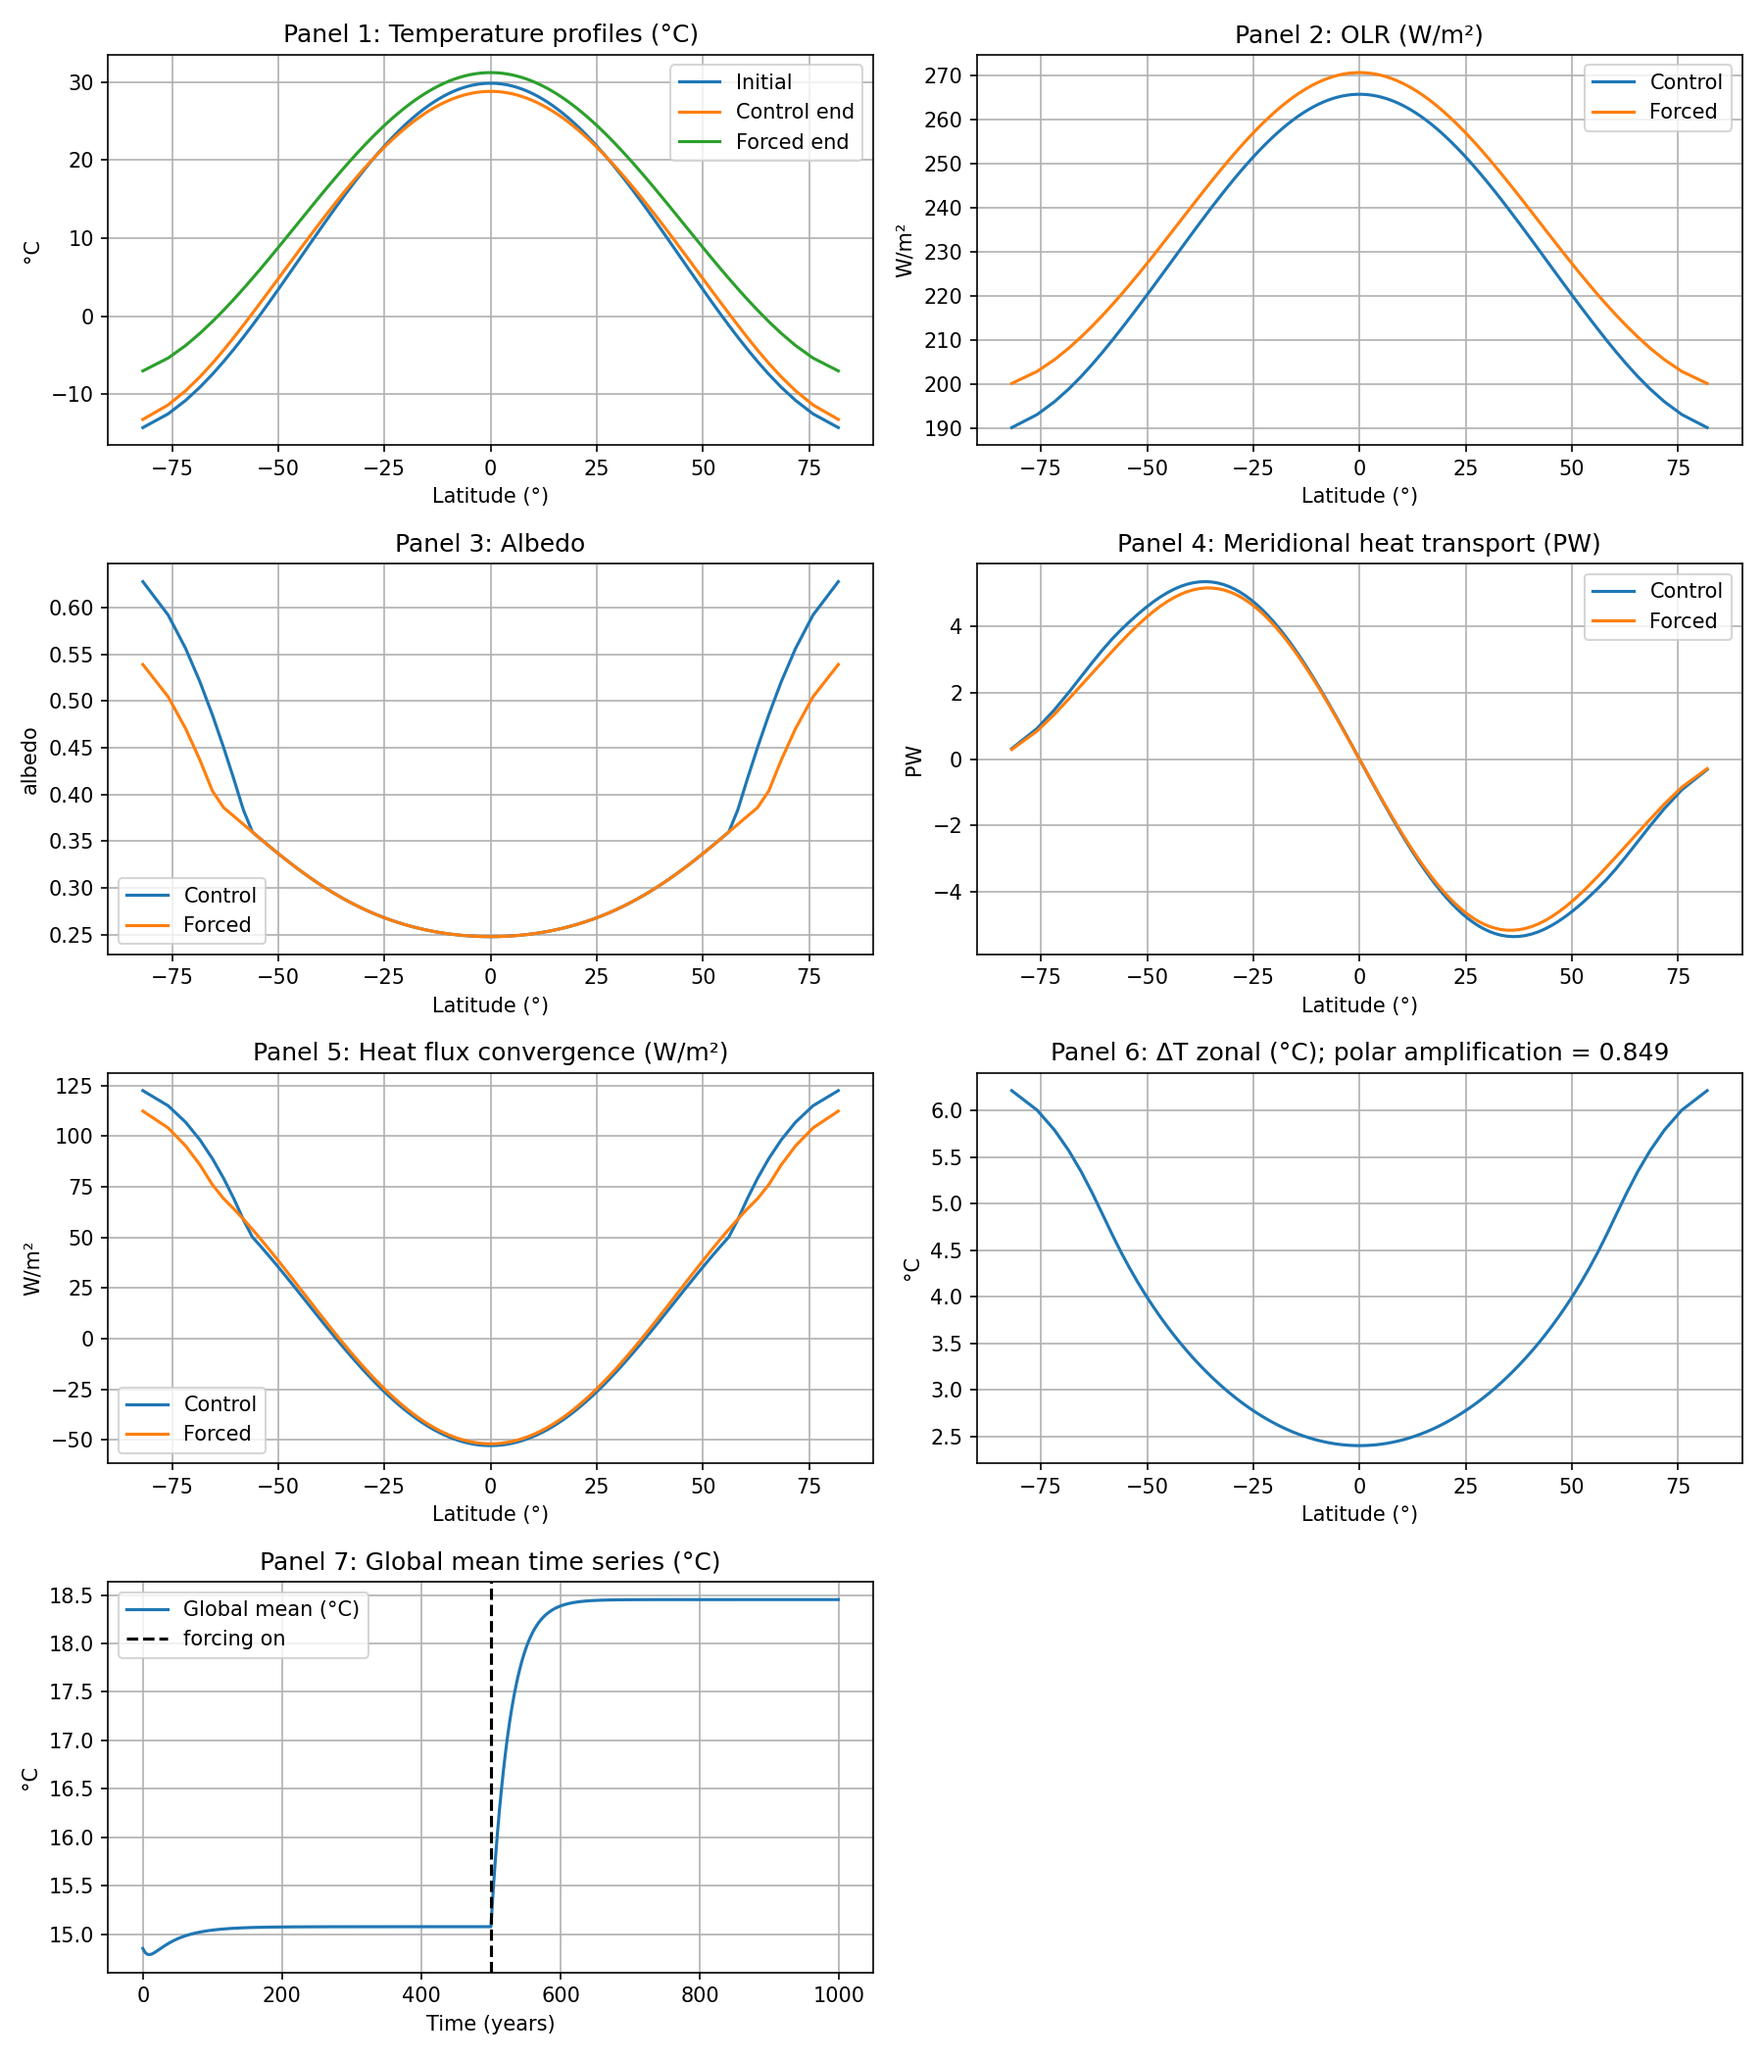
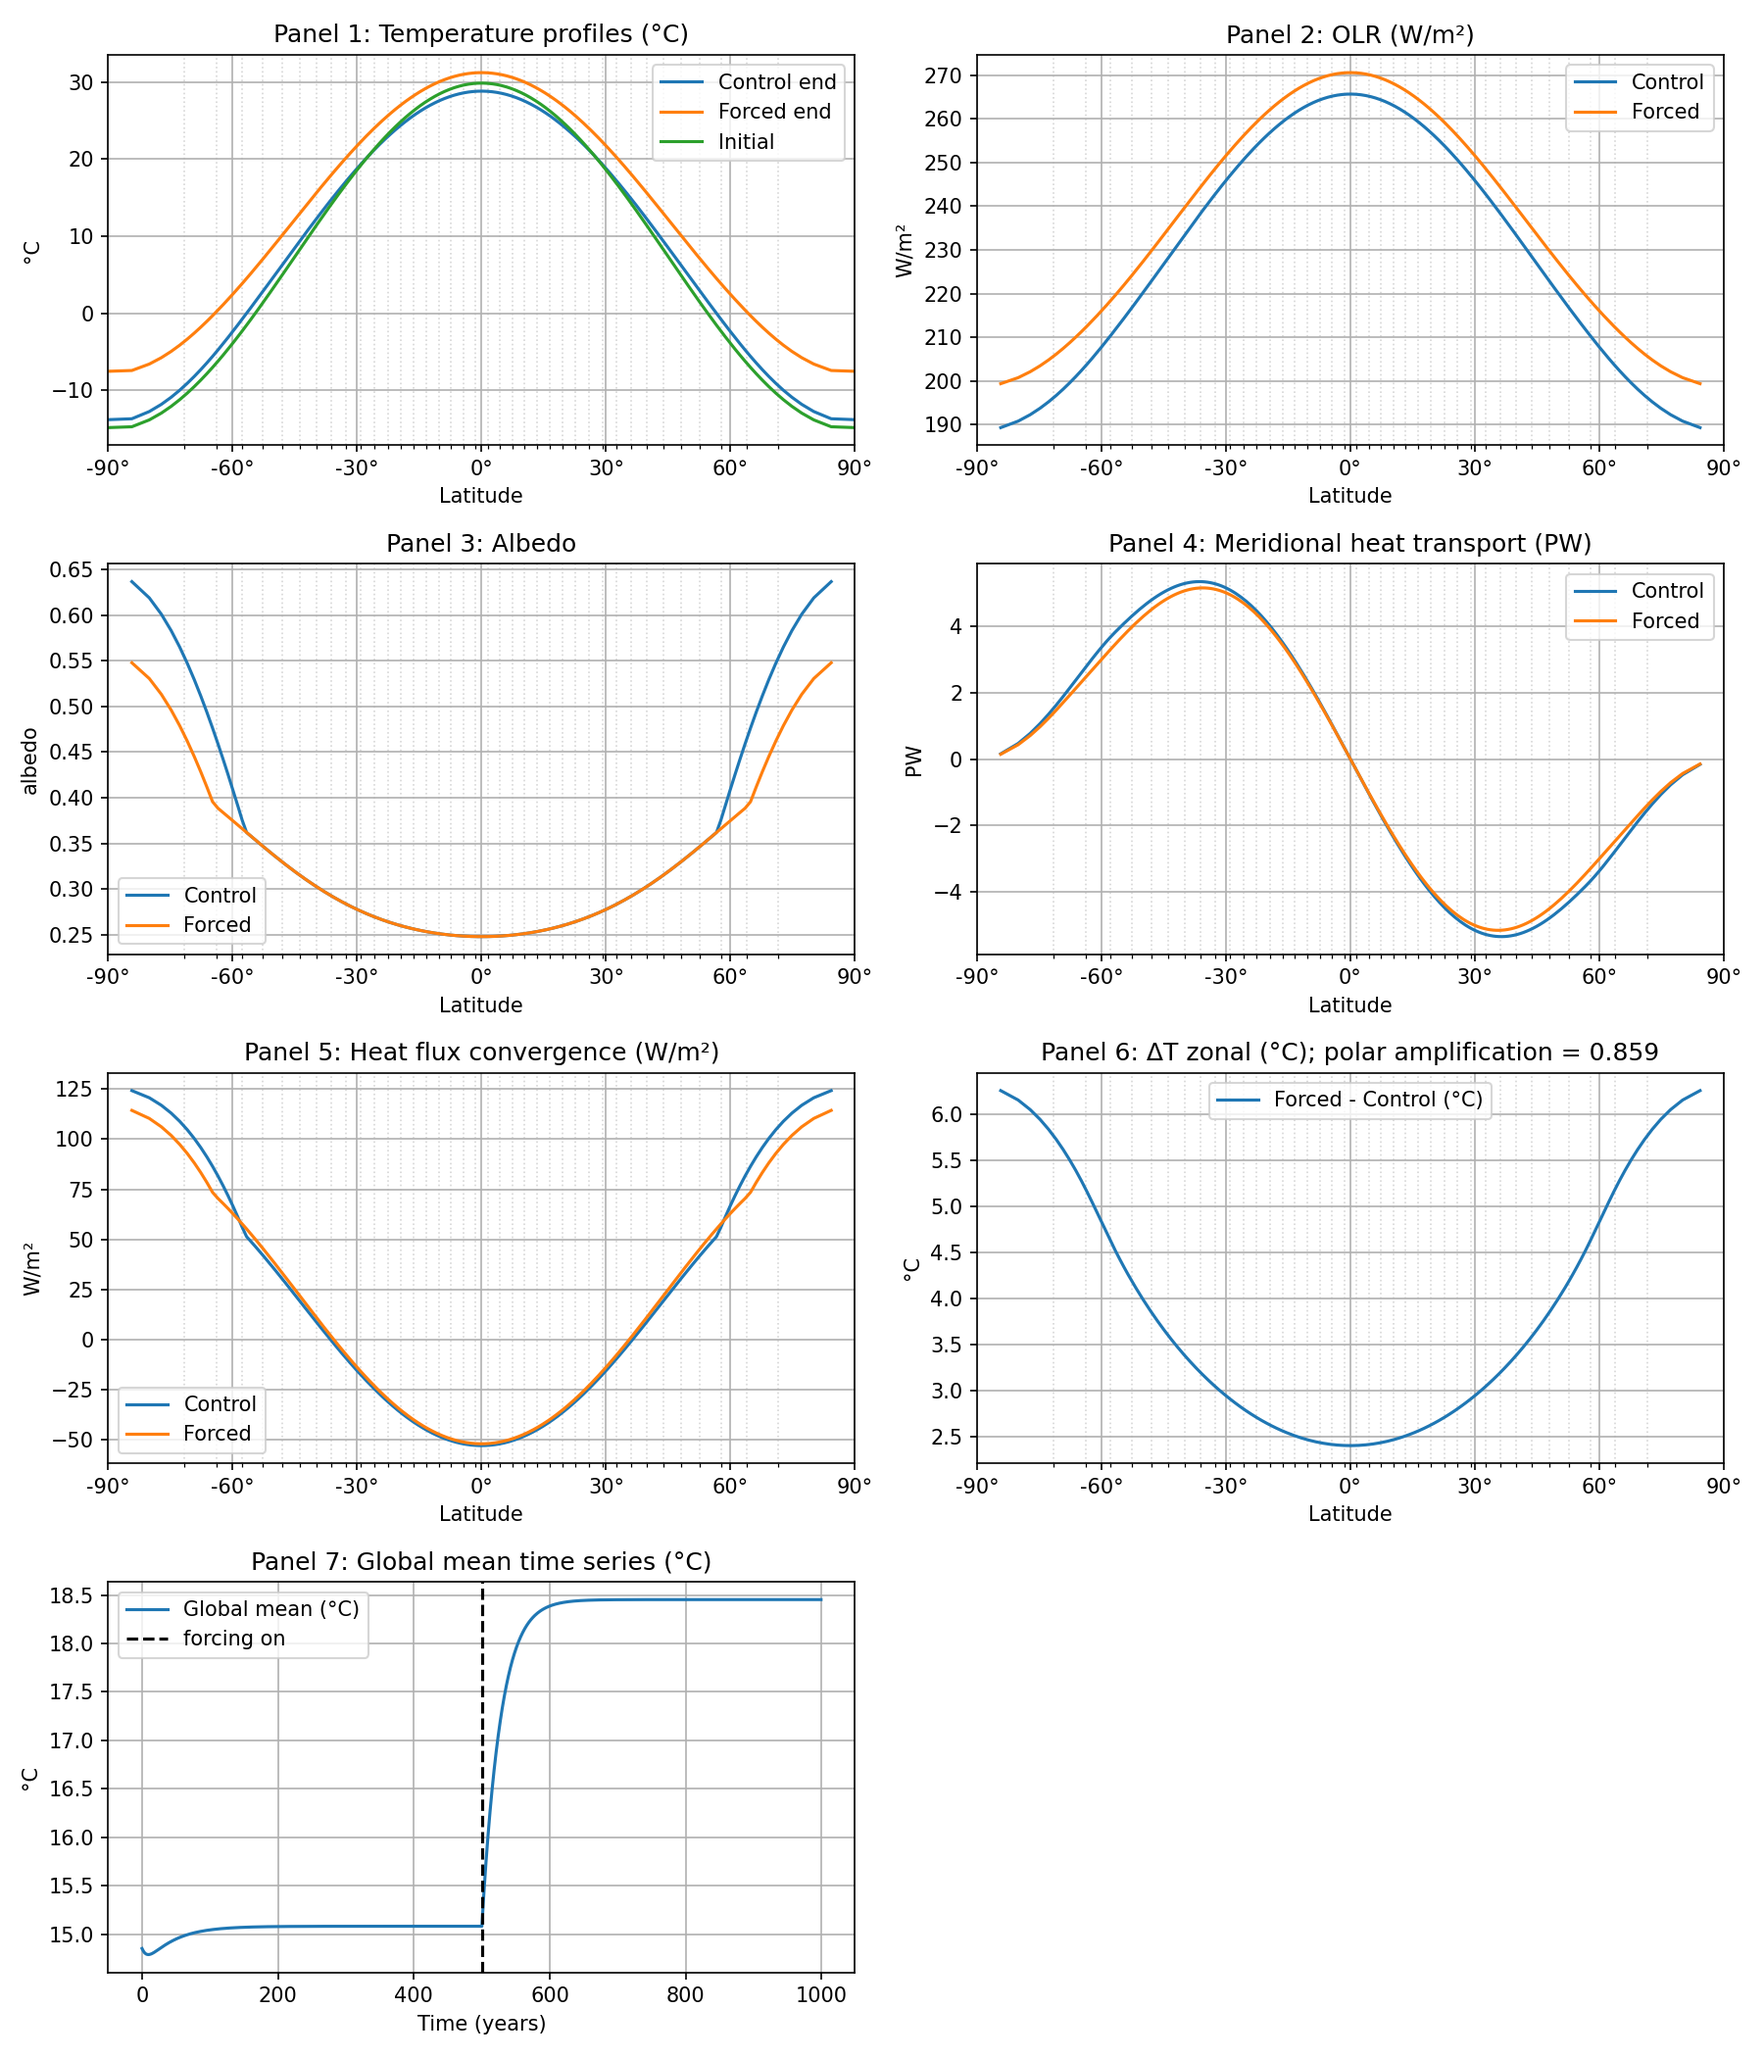
Updated panel look

diff --git a/ebm.py b/ebm.py
@@ -21,7 +21,8 @@ Usage example:
 
 import numpy as np
 import matplotlib.pyplot as plt
-import argparse, os, textwrap
+import argparse, os, textwrap # for command-line args, file operations and text formatting
+from matplotlib.ticker import FixedLocator # for minor ticks
 
 # ---------------- Physical / model constants ----------------
 SIGMA = 5.67e-8                  # Stefan-Boltzmann (W/m²/K⁴)
@@ -199,7 +200,7 @@ def main():
     p.add_argument('--input', type=str, default='formoutput.txt', help='parameter file (optional)')
     p.add_argument('--years_control', type=float, default=500)
     p.add_argument('--years_forced', type=float, default=500)
-    p.add_argument('--nx', type=int, default=100)
+    p.add_argument('--nx', type=int, default=200)
     p.add_argument('--dt', type=float, default=1.0, help='timestep in years')
     p.add_argument('--outdir', type=str, default='results')
     args = p.parse_args()
@@ -255,39 +256,39 @@ def main():
     # ---- Build multipanel figure ----
     fig, axs = plt.subplots(4, 2, figsize=(12, 14))
     axs = axs.flatten()
-
+    
     # Panel 1: Temperature profiles (°C)
-    axs[0].plot(lat, ctrl['T_init'] - 273.15, label='Initial')
-    axs[0].plot(lat, ctrl['T_end'] - 273.15, label='Control end')
-    axs[0].plot(lat, forc['T_end'] - 273.15, label='Forced end')
-    axs[0].set_title('Panel 1: Temperature profiles (°C)'); axs[0].set_xlabel('Latitude (°)'); axs[0].set_ylabel('°C'); axs[0].legend(); axs[0].grid(True)
+    axs[0].plot([-90, *lat, 90], [ctrl['T_poles_end'][0] - 273.15,*ctrl['T_end'] - 273.15, ctrl['T_poles_end'][1] - 273.15], label='Control end')
+    axs[0].plot([-90, *lat, 90], [forc['T_poles_end'][0] - 273.15,*forc['T_end'] - 273.15, forc['T_poles_end'][1] - 273.15], label='Forced end')
+    axs[0].plot([-90, *lat, 90], [ctrl['T_poles_init'][0] - 273.15,*ctrl['T_init'] - 273.15, ctrl['T_poles_init'][1] - 273.15], label='Initial')
+    axs[0].set_title('Panel 1: Temperature profiles (°C)'); axs[0].set_ylabel('°C')
 
     # Panel 2: OLR (W/m²)
     axs[1].plot(lat, ctrl['olr_end'], label='Control')
     axs[1].plot(lat, forc['olr_end'], label='Forced')
-    axs[1].set_title('Panel 2: OLR (W/m²)'); axs[1].set_xlabel('Latitude (°)'); axs[1].set_ylabel('W/m²'); axs[1].legend(); axs[1].grid(True)
+    axs[1].set_title('Panel 2: OLR (W/m²)'); axs[1].set_ylabel('W/m²')
 
     # Panel 3: Albedo
     axs[2].plot(lat, ctrl['alpha_end'], label='Control')
     axs[2].plot(lat, forc['alpha_end'], label='Forced')
-    axs[2].set_title('Panel 3: Albedo'); axs[2].set_xlabel('Latitude (°)'); axs[2].set_ylabel('albedo'); axs[2].legend(); axs[2].grid(True)
+    axs[2].set_title('Panel 3: Albedo'); axs[2].set_ylabel('albedo')
 
     # Panel 4: Meridional heat transport (PW)
     Hc = meridional_transport_PW(ctrl['T_end'], x, ctrl['D_end'])
     Hf = meridional_transport_PW(forc['T_end'], x, forc['D_end'])
     axs[3].plot(lat, Hc, label='Control')
     axs[3].plot(lat, Hf, label='Forced')
-    axs[3].set_title('Panel 4: Meridional heat transport (PW)'); axs[3].set_xlabel('Latitude (°)'); axs[3].set_ylabel('PW'); axs[3].legend(); axs[3].grid(True)
+    axs[3].set_title('Panel 4: Meridional heat transport (PW)'); axs[3].set_ylabel('PW')
 
     # Panel 5: Heat flux convergence (W/m²)
     axs[4].plot(lat, ctrl['conv_end'], label='Control')
     axs[4].plot(lat, forc['conv_end'], label='Forced')
-    axs[4].set_title('Panel 5: Heat flux convergence (W/m²)'); axs[4].set_xlabel('Latitude (°)'); axs[4].set_ylabel('W/m²'); axs[4].legend(); axs[4].grid(True)
+    axs[4].set_title('Panel 5: Heat flux convergence (W/m²)'); axs[4].set_ylabel('W/m²')
 
     # Panel 6: Change in zonal mean temperature (°C) + polar amplification
     axs[5].plot(lat, dT_lat, label='Forced - Control (°C)')
     axs[5].set_title(f'Panel 6: ΔT zonal (°C); polar amplification = {polar_ampl:.3f}')
-    axs[5].set_xlabel('Latitude (°)'); axs[5].set_ylabel('°C'); axs[5].grid(True)
+    axs[5].set_ylabel('°C')
 
     # Panel 7: Global mean time series (°C)
     Tg_all = np.concatenate([ctrl['Tg'], forc['Tg']])
@@ -300,6 +301,20 @@ def main():
 
     # Hide the 8th panel
     axs[7].axis('off')
+
+    # Minor grid with 40 ticks based on lat spacing
+    minor_ticks = np.arcsin(np.linspace(-1, 1, 40)) * (180/np.pi)
+
+    # Settings applicable to panels 1-6
+    for ax in axs[:6]:
+        ax.set_xlim([-90, 90])
+        ax.set_xlabel('Latitude')
+        ax.legend()
+        ax.grid(True)
+        ax.set_xticks(np.linspace(-90, 90, 7))
+        ax.set_xticklabels([f"{tick:.0f}°" for tick in np.linspace(-90, 90, 7)])
+        ax.xaxis.set_minor_locator(FixedLocator(minor_ticks))
+        ax.grid(True, which='minor', linestyle=':', alpha=0.5)
 
     fig.tight_layout()
     multi_path = os.path.join(args.outdir, 'ebm_panels.png')
